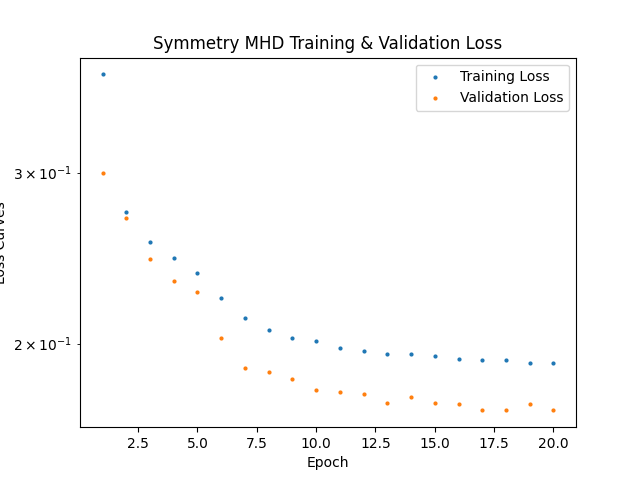
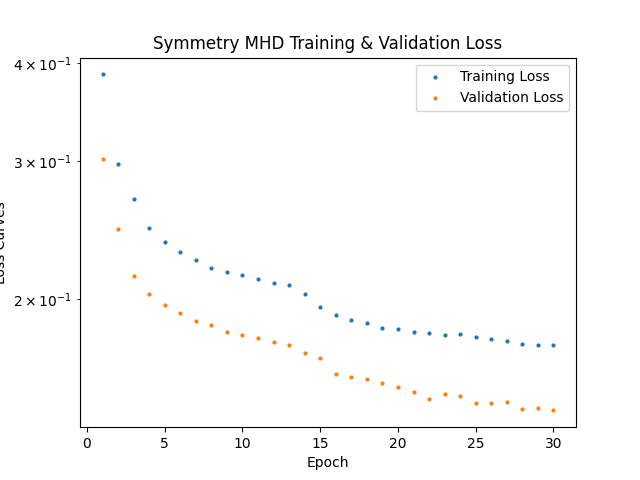
eh

diff --git a/PS2/P2/P2.py b/PS2/P2/P2.py
@@ -23,8 +23,8 @@ from .augment import Augmentation, b_parity, rotation_symmetry
 #   of concatenated data sets in DATA INITIALIZATION s.t. 
 #   baseline NN and symmetry-enforcing NN both are given the same 
 #   qty of data
-TRAIN_ORIG_DIVISOR = 100
-TRAIN_AUG_DIVISOR = 12 * TRAIN_ORIG_DIVISOR 
+TRAIN_ORIG_DIVISOR = 80
+TRAIN_AUG_DIVISOR = 13 * TRAIN_ORIG_DIVISOR 
 VALID_DIVISOR = 10
 TEST_DIVISOR = 10
 
@@ -53,14 +53,14 @@ DEFAULT_ACTIVATION = nn.ReLU()
 # Data settings:
 DATASET_NAME = "MHD_64"
 DATA_SPLITS = ["train", "valid", "test"]
-N_STEPS_INPUT = 4
+N_STEPS_INPUT = 5
 N_STEPS_OUTPUT = 1
 USE_NORMALIZATION = False
 
 # Optimizer settings:
 LEARNING_RATE = 1e-3
 LOSS_FUNC = nn.MSELoss()
-EPOCHS = 20
+EPOCHS = 30
 DELTA_THRESHOLD = 1e-2
 
 # DataLoader settings:
@@ -234,6 +234,7 @@ def train_generator():
         train_orig, 
         train_mag, 
         train_mag, # B-field parity re-introduced for strength
+        train_mag,
         train_z90, 
         train_z180,
         train_z270,
@@ -361,10 +362,10 @@ class SpatioTemporalCNN(nn.Module):
             stride = SPATIAL_LOWRES_STRIDE,
             padding = spatial_padding,
         )
-    #=====================
+    #=================================
 
 
-    #========================
+    #==================================================
     def forward(self, X: torch.Tensor) -> torch.Tensor:
         """
         X shape:

diff --git a/PS2/README.md b/PS2/README.md
@@ -24,14 +24,17 @@ TVT_MLP (TVT.py): Test, Validate, and Training function for an MLP
 
 #------------------------------ P2.py --------------------------------#
                               Sections
-DATA INITIALIZATION: Data download, number of time-steps per sample, 
-    data augmentation (See Part 1, (b)) with subset of data (shit was
-    too damn big. Run it on a supercomputer if you want).
-MODEL CLASS AND FORWARD FUNCTION: Model was a spatial 3-D CNN then a 
-    temporal 1-D CNN, with activations after each layer. Tensors had 
-    to be modified to be compatible with Conv3d and Conv1d. 
-HYPERPARAMETERS AND RUNNING IT: Calling the model, hyperparameters,
-    and running train, validate, test function.
+ADJUSTABLE HYPERPARAMETERS: All tweakable hyperparameters. See code 
+    comments for each one's meaning.
+DATA INITIALIZATION: Data download, func to hold validation and test
+    data consistent for both architectures, data augmentation 
+    (See Part 1, (b)) with subset of data (shit was too damn big. Run 
+    it on a supercomputer if you want).
+MODEL: Model was a spatial 3-D CNN, with stride to donwsample grid 
+    resolution, then a temporal 1-D CNN, with activations after each 
+    layer, then a resampling back up to the 64^3 grid. Tensors had to 
+    be modified to be compatible with Conv3d and Conv1d. 
+RUNNING IT: Calls architecture functions, prints resulting test loss.
 AUGMENTATION (augment.py): augmentation functions: B-field parity,
     and rotation function that can rotate 90, 180 or 270 degrees about 
     the axis of choice.
@@ -44,8 +47,4 @@ TVT_MHD (TVT.py): Train, validate, test function, same as TVT_MLP but
 
 
 
-
-
-
-LLM Usage: Packaging feature matrices into forms acceptable by Conv3d, Conv1d, 
     
